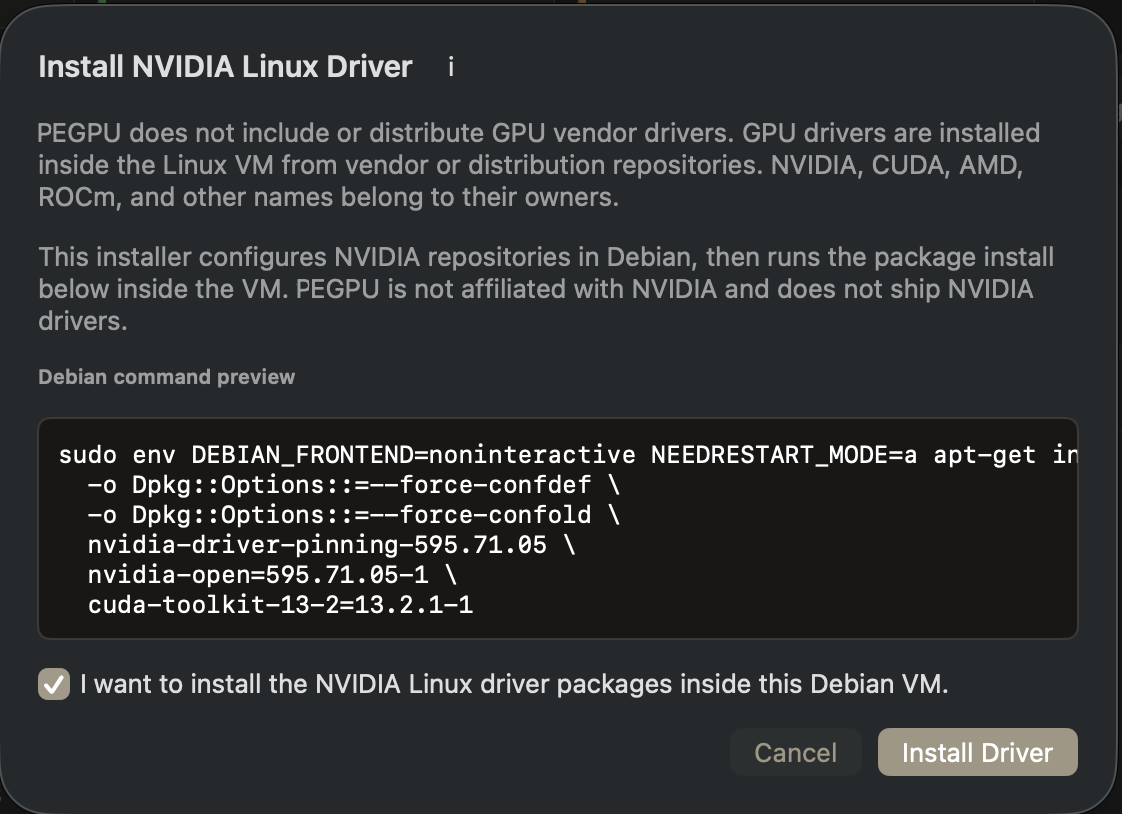
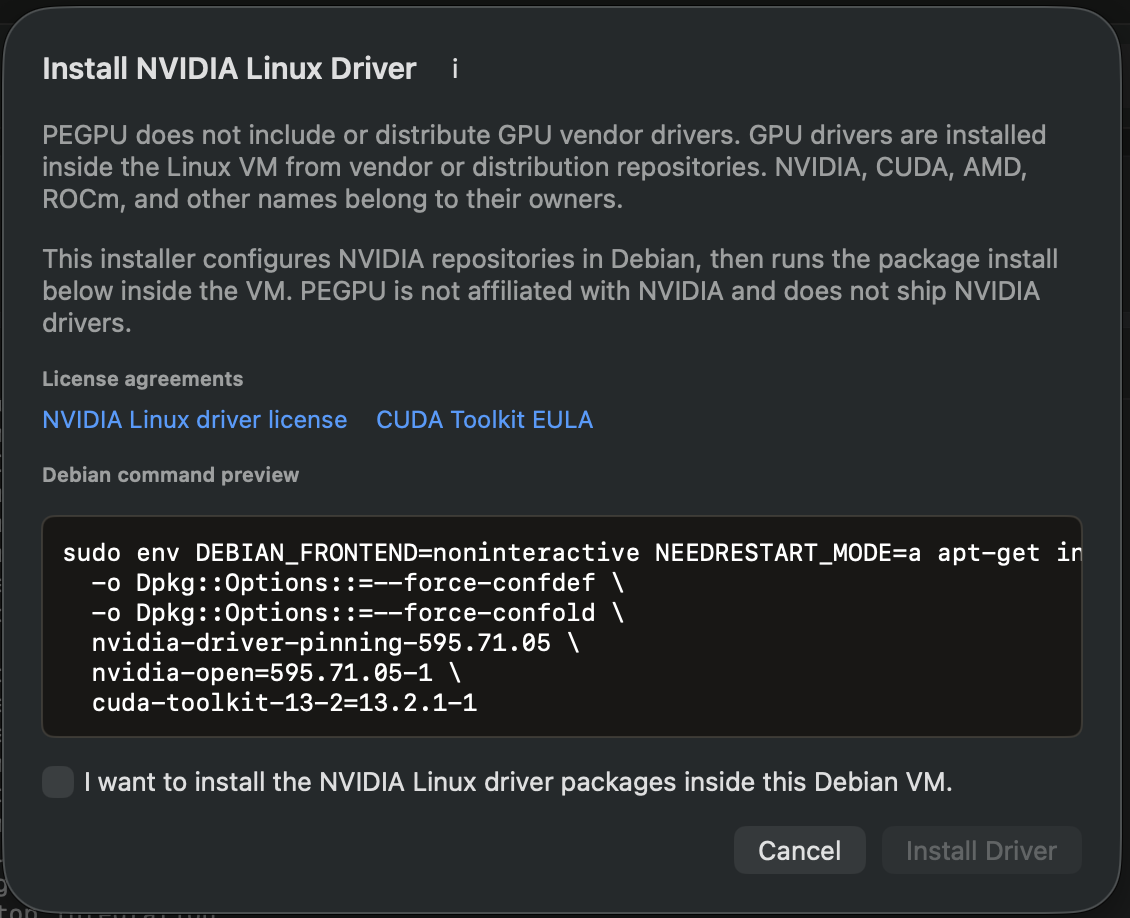
Update website screenshots and hero layout

diff --git a/website/index.html b/website/index.html
@@ -13,7 +13,7 @@
     <meta property="og:description" content="A very unofficial passthrough runtime for NVIDIA Thunderbolt eGPUs on Apple Silicon Macs.">
     <meta property="og:image" content="assets/slides/gui.webp">
     <link rel="icon" href="assets/pegpu-logo.png">
-    <link rel="stylesheet" href="styles.css">
+    <link rel="stylesheet" href="styles.css?v=20260610">
   </head>
   <body>
     <canvas id="signal-canvas" aria-hidden="true"></canvas>
@@ -37,7 +37,7 @@
         <div class="hero-backdrop" aria-hidden="true"></div>
         <div class="hero-noise" aria-hidden="true"></div>
         <div class="hero-content">
-          <p class="eyebrow">Apple Silicon<span class="mark">*</span> + Thunderbolt<span class="mark">*</span> + NVIDIA<span class="mark">*</span> + macOS<span class="mark">*</span> + Linux VM<span class="mark">*</span></p>
+          <p class="eyebrow">NVIDIA eGPU passthrough / Linux VM runtime</p>
           <h1 id="hero-title">PEGPU</h1>
           <p class="hero-copy">
             A very unofficial, very experimental passthrough runtime for getting NVIDIA Thunderbolt eGPUs doing useful work on macOS through Linux virtualization.
@@ -48,7 +48,7 @@
             <a class="button quiet" href="#story">Read the story</a>
           </div>
           <p class="hero-footnote">
-            * Compatibility/purpose labels only. PEGPU is not endorsed by, sponsored by, affiliated with, or encouraged by Apple, macOS, NVIDIA, Linux, Thunderbolt, QEMU, UTM, Debian, llama.cpp, or any other named company, protocol, project, or maintainer.
+            Compatibility/purpose labels only. PEGPU is not endorsed by, sponsored by, affiliated with, or encouraged by Apple, macOS, NVIDIA, Linux, Thunderbolt, QEMU, UTM, Debian, llama.cpp, or any other named company, protocol, project, or maintainer.
           </p>
         </div>
       </section>
@@ -102,7 +102,7 @@
             <div class="screenshot-stage">
               <img class="carousel-slide is-active" data-slide="0" src="assets/slides/gui.webp" alt="PEGPU GUI display view with Linux desktop, host metrics, VM metrics, and NVIDIA GPU status." width="3394" height="2336" fetchpriority="high" decoding="async">
               <img class="carousel-slide" data-slide="1" src="assets/slides/external-display.webp" alt="PEGPU GUI tab context menu showing external display session shortcuts for NVIDIA eGPUs." width="3170" height="2192" loading="eager" decoding="async">
-              <img class="carousel-slide" data-slide="2" src="assets/slides/runtime.webp" alt="PEGPU Runtime view showing server controls and runtime status." width="3394" height="2336" loading="lazy" decoding="async">
+              <img class="carousel-slide" data-slide="2" src="assets/slides/runtime.webp?v=20260610" alt="PEGPU Runtime view showing server controls and runtime status." width="3196" height="2196" loading="lazy" decoding="async">
               <img class="carousel-slide" data-slide="3" src="assets/slides/models.webp" alt="PEGPU Models view for local model and runtime management." width="3394" height="2336" loading="lazy" decoding="async">
               <img class="carousel-slide" data-slide="4" src="assets/slides/chat.webp" alt="PEGPU Chat view for local AI runtime interaction." width="3194" height="2204" loading="lazy" decoding="async">
               <img class="carousel-slide" data-slide="5" src="assets/slides/files.webp" alt="PEGPU Files view for browsing shared Mac and Linux files." width="3194" height="2204" loading="lazy" decoding="async">
@@ -348,7 +348,7 @@
                     <figcaption>Run Installer</figcaption>
                   </figure>
                   <figure class="setup-shot">
-                    <img src="assets/setup/nvidia-driver-install-confirm.webp" alt="PEGPU Install NVIDIA Linux Driver confirmation sheet with Debian command preview and Install Driver button." width="1122" height="814" loading="lazy" decoding="async">
+                    <img src="assets/setup/nvidia-driver-install-confirm.webp?v=20260610" alt="PEGPU Install NVIDIA Linux Driver confirmation sheet with Debian command preview and Install Driver button." width="1130" height="918" loading="lazy" decoding="async">
                     <figcaption>Install Driver confirmation</figcaption>
                   </figure>
                 </div>

diff --git a/website/styles.css b/website/styles.css
@@ -178,9 +178,9 @@ code {
 
 .hero {
   position: relative;
-  min-height: 78svh;
+  min-height: clamp(500px, 58svh, 620px);
   display: grid;
-  align-items: end;
+  align-items: start;
   overflow: hidden;
   border-bottom: 1px solid rgba(255, 255, 255, 0.12);
 }
@@ -212,7 +212,7 @@ code {
   position: relative;
   width: min(960px, calc(100% - 2rem));
   margin: 0 auto;
-  padding: 8.4rem 0 5rem;
+  padding: clamp(6.75rem, 10vh, 8rem) 0 clamp(3rem, 6vh, 4rem);
 }
 
 .eyebrow,
